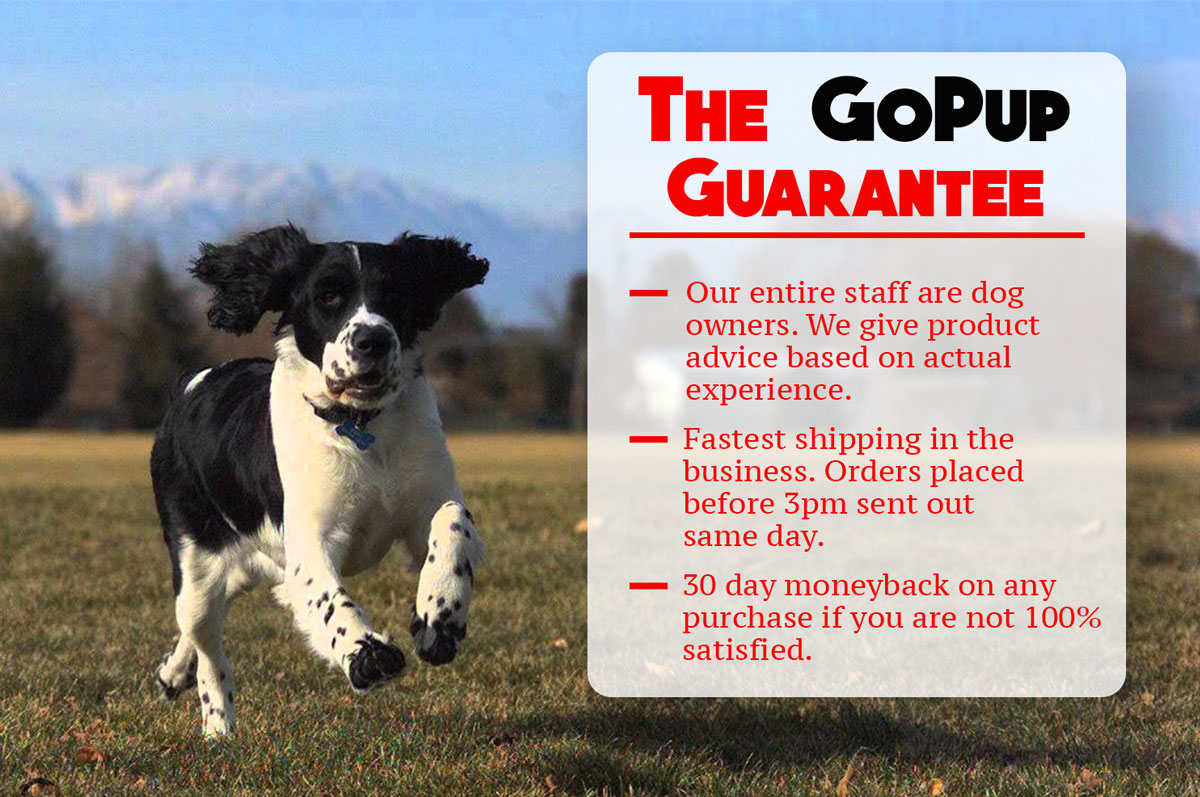
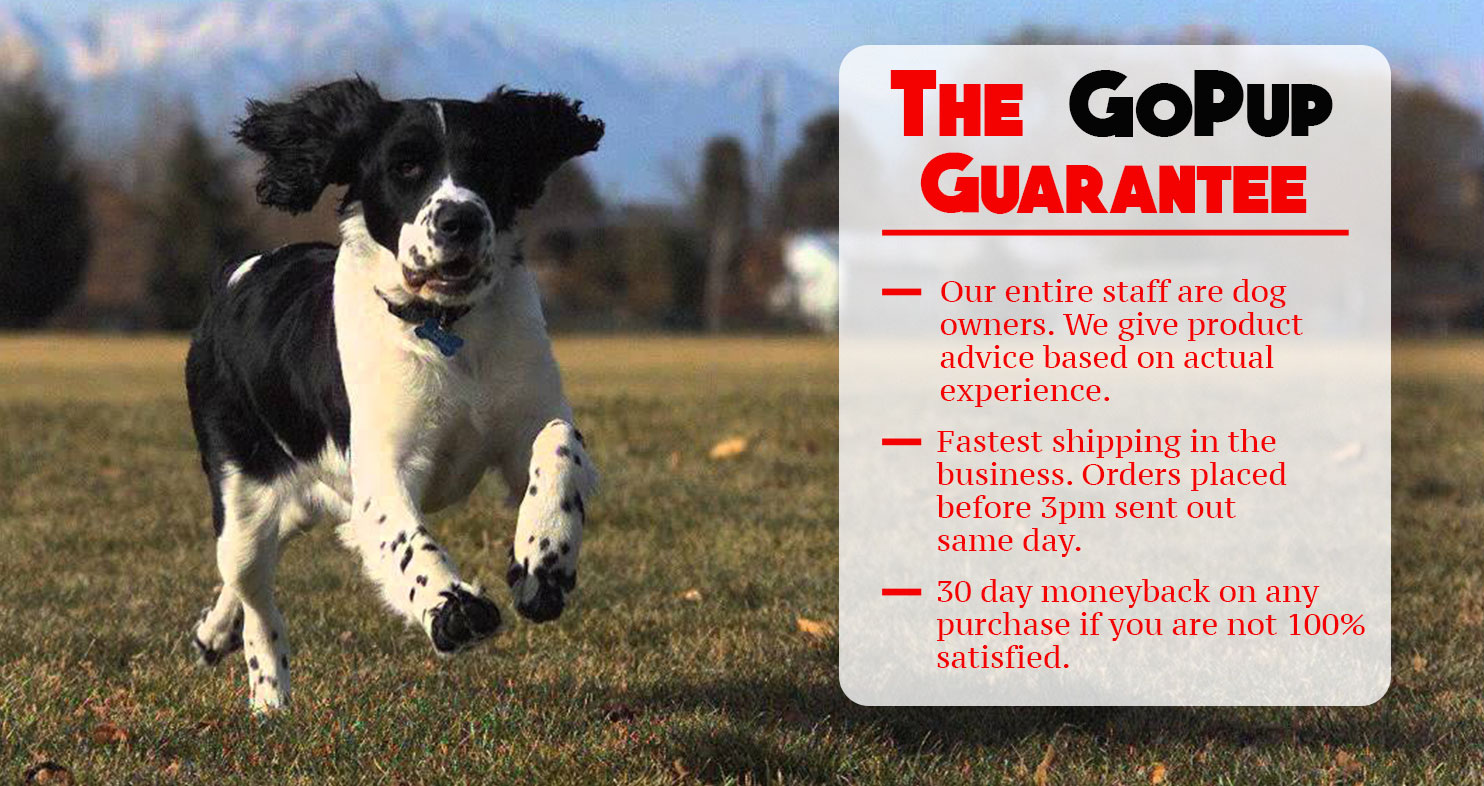
revamped slider

diff --git a/assets/styles.css b/assets/styles.css
@@ -12,19 +12,10 @@ body {
 }
 
 
-.navbar .navbar-nav {
-    display: inline-block;
-    float: none;
-}
-
-.navbar .navbar-collapse {
-	padding-top: 10px;
-    text-align: center;
-}
 .navbar-default {
 
 	background-color: rgb(79, 76, 63);
-	color: rgb(242, 238, 230);
+	color: rgb(219, 212, 187);
 	border-right: 1px solid rgb(79, 76, 63); 
 	border-left: 1px solid rgb(79, 76, 63);
 	border-radius: 0px;
@@ -32,14 +23,21 @@ body {
 }
 
 li {
-    
-    font-size: 1.2em;
-    color: rgb(242, 238, 230); 
+    display: inline-block;
+    float: none;
+    font-size: 1.3em;
+  
 }
 
 #mobile-brand {
-	max-height: 40px;
+	max-height: 50px;
+	margin-top: -16px;
+	margin-left: -20px;
 
+}
+
+@media (max-width:480px){
+	#mobile-brand: 30px;
 }
 
 
@@ -88,32 +86,7 @@ li {
 
 
 
-.brand {
-	width: 100%;
 
-	
-}
-
-.sbanner-head {
-
-	background-color: #000000;
-	border-bottom: 1px solid #000000;
-	margin-left: -15px;
-	margin-right: -15px; 
-	
-}
-.sbanner-list {
-	margin-left: -40px;
-	padding-top: 20px;
-	list-style-type: none;
-	
-}
-
-.sbanner-item {
-	
-	font-size: 2vw;
-
-}
 
 
 div ul.navbar-nav li a.nav-link {
@@ -155,6 +128,7 @@ hr {
 	color: rgba(79, 76, 63, .4);
 }
 
+
 blockquote {
   background: rgb(219, 212, 187);
   border-left: 1px solid rgb(79, 76, 63);
@@ -173,4 +147,6 @@ blockquote:before {
 blockquote p {
   display: inline;
 }
+
+
 

diff --git a/assets/flexslider.css b/assets/flexslider.css
@@ -95,7 +95,7 @@ html[xmlns] .flexslider .slides {
   height: auto;
 }
 .flex-viewport {
-  max-height: 800px;
+  max-height: 2000px;
   -webkit-transition: all 1s ease;
   -moz-transition: all 1s ease;
   -ms-transition: all 1s ease;
@@ -109,7 +109,7 @@ html[xmlns] .flexslider .slides {
   margin-right: 5px;
 }
 .flex-direction-nav {
-  *height: 0;
+ /* height: 0;*/
 }
 .flex-direction-nav a {
   text-decoration: none;
@@ -203,7 +203,7 @@ html[xmlns] .flexslider .slides {
   margin: 0 6px;
   display: inline-block;
   zoom: 1;
-  *display: inline;
+  /*display: inline;*/
 }
 .flex-control-paging li a {
   width: 11px;
